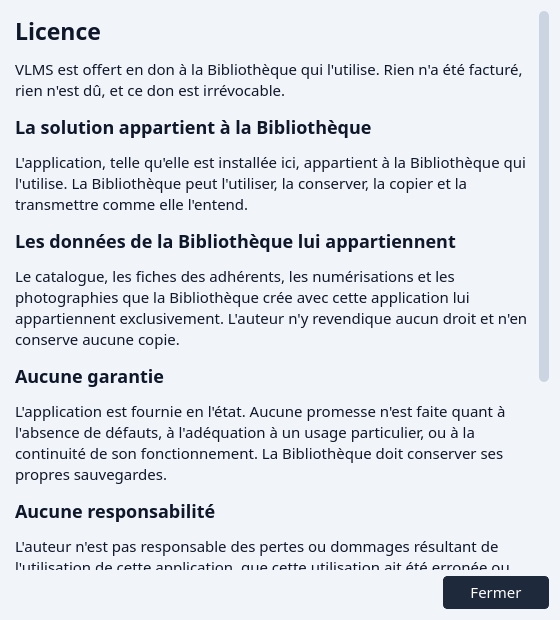
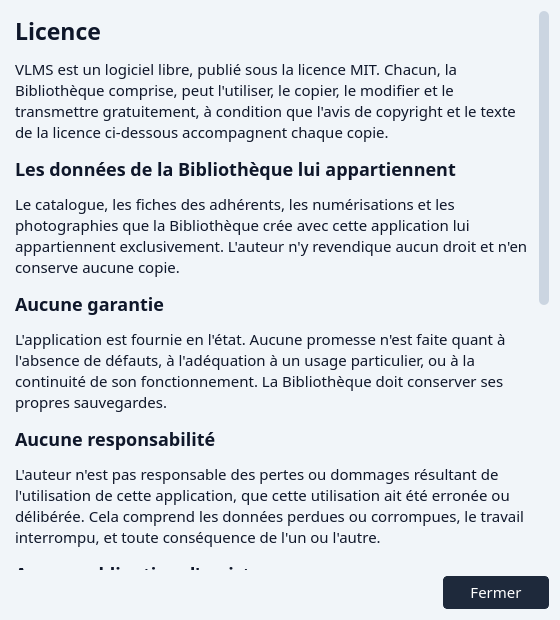
Make the licence dialog say MIT and name the software VLMS is built with.

Changed region(s): [[0.0304, 0.0919, 1.0, 0.9194], [0.9107, 0.3984, 0.9411, 0.429]]

diff --git a/docs/manual/ar/getting-started.html b/docs/manual/ar/getting-started.html
@@ -26,7 +26,7 @@
 <ol><li><span class="ui">الفهرس</span> — الشاشة التي أنت فيها. بجانبها <span class="ui">الأعضاء</span> و<span class="ui">الإعارة</span> و<span class="ui">الأرشيف</span> و<span class="ui">المؤشرات</span>.</li><li>الأعلام الثلاثة. العلم المعبّأ هو لغة الشاشة. اختيار علم آخر يبدّل التطبيق كله دفعة واحدة.</li><li>زر السمة، وبجانبه ؟. زر السمة يشغّل السمة الداكنة أو يطفئها. ؟ يفتح هذا الدليل.</li><li>مرشّحات هذه الشاشة.</li><li>البحث.</li><li>القائمة.</li><li>شريط الصفحات.</li><li>تفاصيل السطر المظلّل.</li><li>أزرار هذه الشاشة.</li><li>التذييل. اسم المكتبة رابط.</li></ol>
 <figure class="shot"><a href="../assets/shots/ar/gs-dark.png"><img src="../assets/shots/ar/gs-dark.png" alt="النافذة نفسها بالسمة الداكنة." loading="lazy"></a><figcaption>النافذة نفسها بالسمة الداكنة.</figcaption></figure>
 <h2 id="h-1">التذييل والرخصة</h2>
-<p>سطر التذييل يفتح الرخصة. تقول إن التطبيق هبة لهذه المكتبة، وإن المكتبة تملك التطبيق كما هو مثبّت هنا، وإن الفهرس وبيانات الأعضاء والصور ملك المكتبة. لا ضمان.</p>
+<p>سطر التذييل يفتح الرخصة. VLMS برنامج حرّ بموجب رخصة MIT: يحقّ للمكتبة، كما لأيّ كان، أن تستعمله وتنسخه وتعدّله وتنقله، شرط أن ترافقه الرخصة. والفهرس وبيانات الأعضاء والصور ملك المكتبة. لا ضمان. وتذكر الرخصة أيضًا البرمجيات التي بُني عليها VLMS، مثل Qt وTesseract، وتنتهي بالنصّ الكامل لرخصة MIT.</p>
 <figure class="shot"><a href="../assets/shots/ar/gs-licence.png"><img src="../assets/shots/ar/gs-licence.png" alt="الرخصة." loading="lazy"></a><figcaption>الرخصة.</figcaption></figure>
 <p>أغلقها بـ<span class="ui">إغلاق</span>.</p>
 <h2 id="list-shape">شكل كل قائمة</h2>

diff --git a/docs/manual/fr/getting-started.html b/docs/manual/fr/getting-started.html
@@ -26,7 +26,7 @@
 <ol><li><span class="ui">Catalogue</span> — l'écran affiché. <span class="ui">Adhérents</span>, <span class="ui">Circulation</span>, <span class="ui">Archives</span> et <span class="ui">Indicateurs</span> sont à côté.</li><li>Les trois drapeaux. Le drapeau rempli est la langue de l'écran. Un autre drapeau change toute l'application d'un coup.</li><li>Le bouton de thème, et le ? à côté. Le bouton de thème allume ou éteint le thème sombre. Le ? ouvre ce manuel.</li><li>Les filtres de cet écran.</li><li>La recherche.</li><li>La liste.</li><li>La pagination.</li><li>Le détail de la ligne surlignée.</li><li>Les boutons de cet écran.</li><li>Le pied de page. Le nom de la bibliothèque est un lien.</li></ol>
 <figure class="shot"><a href="../assets/shots/fr/gs-dark.png"><img src="../assets/shots/fr/gs-dark.png" alt="La même fenêtre en thème sombre." loading="lazy"></a><figcaption>La même fenêtre en thème sombre.</figcaption></figure>
 <h2 id="h-1">Le pied de page et la licence</h2>
-<p>La ligne du pied de page ouvre la licence. Elle dit que l'application est un don à cette bibliothèque, que la bibliothèque possède l'application telle qu'elle est installée ici, et que le catalogue, les fiches d'adhérents et les photographies appartiennent à la bibliothèque. Il n'y a pas de garantie.</p>
+<p>La ligne du pied de page ouvre la licence. VLMS est un logiciel libre sous licence MIT : la bibliothèque, comme chacun, peut l'utiliser, le copier, le modifier et le transmettre, à condition que la licence l'accompagne. Le catalogue, les fiches d'adhérents et les photographies appartiennent à la bibliothèque. Il n'y a pas de garantie. La licence cite aussi les logiciels sur lesquels VLMS repose, comme Qt et Tesseract, et se termine par le texte complet de la licence MIT.</p>
 <figure class="shot"><a href="../assets/shots/fr/gs-licence.png"><img src="../assets/shots/fr/gs-licence.png" alt="La licence." loading="lazy"></a><figcaption>La licence.</figcaption></figure>
 <p>Fermez-la avec <span class="ui">Fermer</span>.</p>
 <h2 id="list-shape">La forme de chaque liste</h2>

diff --git a/docs/manual/en/getting-started.html b/docs/manual/en/getting-started.html
@@ -26,7 +26,7 @@
 <ol><li><span class="ui">Catalogue</span> — the screen you are on. <span class="ui">Members</span>, <span class="ui">Circulation</span>, <span class="ui">Archive</span>, and <span class="ui">Metrics</span> sit beside it.</li><li>The three flags. The filled one is the language of the screen. Choosing another flag switches the whole application at once.</li><li>The theme button, and the ? beside it. The theme button turns the dark theme on and off. The ? opens this manual.</li><li>The filters for this screen.</li><li>Search.</li><li>The list.</li><li>The pager.</li><li>The details of the highlighted row.</li><li>The buttons for this screen.</li><li>The footer. The library's name is a link.</li></ol>
 <figure class="shot"><a href="../assets/shots/en/gs-dark.png"><img src="../assets/shots/en/gs-dark.png" alt="The same window in the dark theme." loading="lazy"></a><figcaption>The same window in the dark theme.</figcaption></figure>
 <h2 id="h-1">The footer and the licence</h2>
-<p>The line in the footer opens the licence. It says the application is a gift to this library, that the library owns the application as it is installed here, and that the catalogue, the member records, and the photographs belong to the library. There is no warranty.</p>
+<p>The line in the footer opens the licence. VLMS is free software under the MIT Licence: the library, like anyone, may use, copy, change and pass it on, as long as the licence goes with it. The catalogue, the member records and the photographs belong to the library. There is no warranty. The licence also names the software VLMS is built with, such as Qt and Tesseract, and ends with the full MIT text.</p>
 <figure class="shot"><a href="../assets/shots/en/gs-licence.png"><img src="../assets/shots/en/gs-licence.png" alt="The licence." loading="lazy"></a><figcaption>The licence.</figcaption></figure>
 <p>Close it with <span class="ui">Close</span>.</p>
 <h2 id="list-shape">The shape of every list</h2>

diff --git a/libraries/Core/src/Strings.cpp b/libraries/Core/src/Strings.cpp
@@ -40,12 +40,9 @@ StringTable arabicStrings()
         // the body, only in the contact block.
         {"licence.title", "الرخصة"},
         {"licence.intro",
-         "برنامج VLMS هدية مُهداة إلى المكتبة التي تستعمله. "
-         "لم يُطلب عنه أي مقابل، ولا شيء مستحق عليه، والهبة لا رجعة فيها."},
-        {"licence.clause.ownership.head", "الحلّ ملك للمكتبة"},
-        {"licence.clause.ownership.body",
-         "التطبيق، كما هو مُثبَّت هنا، ملك للمكتبة التي تستعمله. وللمكتبة أن تستعمله "
-         "وتحتفظ به وتنسخه وتنقله كما تشاء."},
+         "برنامج VLMS برنامج حرّ صادر بموجب رخصة MIT. ويحقّ لأيّ كان، والمكتبة منهم، أن "
+         "يستعمله وينسخه ويعدّله وينقله إلى غيره مجّانًا، شرط أن يرافق كلَّ نسخة منه "
+         "إشعارُ حقوق المؤلف ونصُّ الرخصة الوارد أدناه."},
         {"licence.clause.data.head", "بيانات المكتبة ملك لها"},
         {"licence.clause.data.body",
          "الفهرس وبطاقات المنخرطين والمسوحات والصور التي تنشئها المكتبة بهذا التطبيق ملك "
@@ -62,7 +59,17 @@ StringTable arabicStrings()
         {"licence.clause.support.head", "لا التزام بالدعم"},
         {"licence.clause.support.body",
          "لا يلتزم المؤلف بتقديم دعم أو تدريب أو تحديثات أو إصلاحات. وكلّ عون يُقدَّم هو "
-         "امتداد للهبة، لا واجب مستحقّ."},
+         "تطوّع، لا واجب مستحقّ."},
+        {"licence.thirdParty.head", "برمجيات من أطراف أخرى"},
+        {"licence.thirdParty.body",
+         "بُني VLMS على برمجيات كتبها آخرون، لكلٍّ منها رخصته: Qt (LGPL v3)، وTesseract OCR "
+         "وبيانات لغاته (Apache 2.0)، وLeptonica (BSD 2-Clause)، وSQLite (ملكية عامة)، وخطّ "
+         "Cairo (SIL OFL 1.1). والمكوّنات التي تعتمد عليها مذكورة في الملف "
+         "THIRD_PARTY_NOTICES.txt، والنصوص الكاملة للرخص في المجلد licenses، وكلاهما بجانب "
+         "البرنامج. والشيفرة المصدرية لـ Qt متاحة على https://download.qt.io/"},
+        {"licence.fullText.head", "نصّ الرخصة"},
+        {"licence.fullText.note",
+         "النصّ الإنجليزي التالي هو وحده المعتمد، ولا تحلّ الشروح أعلاه محلّه."},
         {"licence.contact.head", "جهة الاتصال"},
         {"licence.contact.author", "المؤلف: محمد الأمين بن حسين"},
         {"licence.tooltip", "عرض رخصة الاستعمال"},
@@ -539,13 +546,10 @@ StringTable frenchStrings()
         {"footer.copyright", "© {year} VLMS"},
         {"licence.title", "Licence"},
         {"licence.intro",
-         "VLMS est offert en don à la Bibliothèque qui l'utilise. Rien n'a été facturé, "
-         "rien n'est dû, et ce don est irrévocable."},
-        {"licence.clause.ownership.head", "La solution appartient à la Bibliothèque"},
-        {"licence.clause.ownership.body",
-         "L'application, telle qu'elle est installée ici, appartient à la Bibliothèque "
-         "qui l'utilise. La Bibliothèque peut l'utiliser, la conserver, la copier "
-         "et la transmettre comme elle l'entend."},
+         "VLMS est un logiciel libre, publié sous la licence MIT. Chacun, la Bibliothèque "
+         "comprise, peut l'utiliser, le copier, le modifier et le transmettre gratuitement, "
+         "à condition que l'avis de copyright et le texte de la licence ci-dessous "
+         "accompagnent chaque copie."},
         {"licence.clause.data.head", "Les données de la Bibliothèque lui appartiennent"},
         {"licence.clause.data.body",
          "Le catalogue, les fiches des adhérents, les numérisations et les photographies que "
@@ -565,7 +569,19 @@ StringTable frenchStrings()
         {"licence.clause.support.head", "Aucune obligation d'assistance"},
         {"licence.clause.support.body",
          "L'auteur n'est tenu à aucune assistance, formation, mise à jour ni réparation. "
-         "Toute aide apportée prolonge le don ; elle n'est pas une obligation."},
+         "Toute aide apportée est bénévole ; elle n'est pas une obligation."},
+        {"licence.thirdParty.head", "Logiciels de tiers"},
+        {"licence.thirdParty.body",
+         "VLMS repose sur des logiciels écrits par d'autres, chacun sous sa propre licence : "
+         "Qt (LGPL v3), Tesseract OCR et ses données de langue (Apache 2.0), Leptonica "
+         "(BSD 2-Clause), SQLite (domaine public) et la police Cairo (SIL OFL 1.1). Les "
+         "composants dont ils dépendent sont listés dans THIRD_PARTY_NOTICES.txt, et les "
+         "textes complets des licences se trouvent dans le dossier licenses, tous deux à côté "
+         "du programme. Le code source de Qt est disponible sur https://download.qt.io/"},
+        {"licence.fullText.head", "Le texte de la licence"},
+        {"licence.fullText.note",
+         "Seul le texte anglais ci-dessous fait foi. Les explications ci-dessus ne le "
+         "remplacent pas."},
         {"licence.contact.head", "Contact"},
         {"licence.contact.author", "L'auteur : Mohamed Lamine Ben Hassine"},
         {"licence.tooltip", "Afficher la licence"},
@@ -1062,12 +1078,9 @@ StringTable englishStrings()
         {"footer.copyright", "© {year} VLMS"},
         {"licence.title", "Licence"},
         {"licence.intro",
-         "VLMS is given as a gift to the Library that uses it. Nothing was charged for it, "
-         "nothing is owed for it, and the gift cannot be taken back."},
-        {"licence.clause.ownership.head", "The solution is the Library's"},
-        {"licence.clause.ownership.body",
-         "The application, as it is installed here, belongs to the Library that uses it. "
-         "The Library may use it, keep it, copy it and pass it on as it sees fit."},
+         "VLMS is free software, released under the MIT Licence. Anyone, the Library "
+         "included, may use it, copy it, change it and pass it on at no cost, provided the "
+         "copyright notice and the licence text below go with every copy."},
         {"licence.clause.data.head", "The Library's records are its own"},
         {"licence.clause.data.body",
          "The catalogue, the member records, the scans and the photographs the Library "
@@ -1086,7 +1099,18 @@ StringTable englishStrings()
         {"licence.clause.support.head", "No duty to support"},
         {"licence.clause.support.body",
          "The author is under no obligation to provide support, training, updates or "
-         "repairs. Any help given is a continuation of the gift, not a duty owed."},
+         "repairs. Any help given is given freely, not a duty owed."},
+        {"licence.thirdParty.head", "Software by others"},
+        {"licence.thirdParty.body",
+         "VLMS is built with software written by others, each under its own licence: Qt "
+         "(LGPL v3), Tesseract OCR and its language data (Apache 2.0), Leptonica "
+         "(BSD 2-Clause), SQLite (public domain) and the Cairo font (SIL OFL 1.1). The "
+         "components they rely on are listed in THIRD_PARTY_NOTICES.txt, and the full licence "
+         "texts are in the licenses folder, both beside the program. The source code of Qt "
+         "is available from https://download.qt.io/"},
+        {"licence.fullText.head", "The licence text"},
+        {"licence.fullText.note",
+         "The text below is the one that applies. The explanations above do not replace it."},
         {"licence.contact.head", "Contact"},
         {"licence.contact.author", "The author: Mohamed Lamine Ben Hassine"},
         {"licence.tooltip", "Show the licence"},

diff --git a/applications/vlms/test/src/test_licence_dialog.cpp b/applications/vlms/test/src/test_licence_dialog.cpp
@@ -13,6 +13,7 @@
 #include <QLayout>
 #include <QPushButton>
 #include <QRect>
+#include <QScrollBar>
 #include <QTextBrowser>
 #include <Qt>
 
@@ -37,11 +38,12 @@ const std::vector<std::string>& clauseBodyKeys()
 {
     static const std::vector<std::string> keys = {
         "licence.intro",
-        "licence.clause.ownership.body",
         "licence.clause.data.body",
         "licence.clause.warranty.body",
         "licence.clause.liability.body",
         "licence.clause.support.body",
+        "licence.thirdParty.body",
+        "licence.fullText.note",
     };
     return keys;
 }
@@ -170,11 +172,56 @@ TEST_F(test_ui_LicenceDialog, TheLicenceIsNotPaintedAsAnInputField)
         const QColor top = shot.pixelColor(box.center().x(), box.top());
         const QColor bottom = shot.pixelColor(box.center().x(), box.bottom());
 
+        // The licence is longer than the window, so a scroll bar runs down one
+        // side -- the left one in Arabic -- and that edge shows the bar's own
+        // outline, not a frame. Only the edges without it say anything.
+        const QScrollBar* bar = body->verticalScrollBar();
+        const bool barShown = bar->isVisibleTo(body);
+        const bool barOnLeft = barShown && bar->geometry().center().x() < body->width() / 2;
+
         const QColor border(QLatin1String(c.borderColour));
-        EXPECT_NE(left, border);
-        EXPECT_NE(right, border);
+        if (!barOnLeft) {
+            EXPECT_NE(left, border);
+        }
+        if (!barShown || barOnLeft) {
+            EXPECT_NE(right, border);
+        }
         EXPECT_NE(top, border);
         EXPECT_NE(bottom, border);
     }
     Theme::setMode(Theme::kDefaultMode);
+}
+
+// MIT asks for the copyright notice and the permission notice in every copy.
+// The binding text is the English one, so it is shown verbatim whatever the
+// language; the clauses above it only explain it.
+TEST_F(test_ui_LicenceDialog, TheMitLicenceIsShownInFullInEveryLanguage)
+{
+    for (const char* locale : {kArabic, kFrench, kEnglish}) {
+        SCOPED_TRACE(locale);
+        Core::Locale::setCode(locale);
+        LicenceDialog dialog;
+        const QString text = dialog.documentText();
+
+        EXPECT_TRUE(text.contains(QStringLiteral("MIT License")));
+        EXPECT_TRUE(text.contains(QStringLiteral("Copyright (c) 2026 Mohamed Lamine Ben Hassine")));
+        EXPECT_TRUE(text.contains(QStringLiteral("Permission is hereby granted, free of charge")));
+        EXPECT_TRUE(text.contains(QStringLiteral("THE SOFTWARE IS PROVIDED \"AS IS\"")));
+    }
+}
+
+TEST_F(test_ui_LicenceDialog, EveryBundledComponentIsNamedWithItsLicence)
+{
+    for (const char* locale : {kArabic, kFrench, kEnglish}) {
+        SCOPED_TRACE(locale);
+        Core::Locale::setCode(locale);
+        LicenceDialog dialog;
+        const QString text = dialog.documentText();
+
+        for (const char* name : {"Qt", "LGPL", "Tesseract", "Apache", "Leptonica", "BSD",
+                                 "SQLite", "Cairo", "OFL", "THIRD_PARTY_NOTICES.txt"}) {
+            SCOPED_TRACE(name);
+            EXPECT_TRUE(text.contains(QString::fromLatin1(name)));
+        }
+    }
 }

diff --git a/libraries/Core/test/src/test_licence_strings.cpp b/libraries/Core/test/src/test_licence_strings.cpp
@@ -21,8 +21,6 @@ const std::vector<std::string>& licenceKeys()
     static const std::vector<std::string> keys = {
         "licence.title",
         "licence.intro",
-        "licence.clause.ownership.head",
-        "licence.clause.ownership.body",
         "licence.clause.data.head",
         "licence.clause.data.body",
         "licence.clause.warranty.head",
@@ -31,6 +29,10 @@ const std::vector<std::string>& licenceKeys()
         "licence.clause.liability.body",
         "licence.clause.support.head",
         "licence.clause.support.body",
+        "licence.thirdParty.head",
+        "licence.thirdParty.body",
+        "licence.fullText.head",
+        "licence.fullText.note",
         "licence.contact.head",
         "licence.contact.author",
         "licence.tooltip",
@@ -66,11 +68,12 @@ TEST(test_core_LicenceStrings, TheLicenceNamesTheAuthorOnlyInTheContactBlock)
 {
     const std::vector<std::string> bodyKeys = {
         "licence.intro",
-        "licence.clause.ownership.body",
         "licence.clause.data.body",
         "licence.clause.warranty.body",
         "licence.clause.liability.body",
         "licence.clause.support.body",
+        "licence.thirdParty.body",
+        "licence.fullText.note",
     };
     for (const char* locale : {kArabic, kFrench, kEnglish}) {
         for (const std::string& key : bodyKeys) {
@@ -80,4 +83,24 @@ TEST(test_core_LicenceStrings, TheLicenceNamesTheAuthorOnlyInTheContactBlock)
     }
     EXPECT_NE(Core::Strings::rawValue(kEnglish, "licence.contact.author").find("Ben Hassine"),
               std::string::npos);
+}
+
+// The old gift wording said the application belonged to the Library. Under the
+// MIT licence the author keeps the copyright and the Library gets the
+// permissions; a clause saying otherwise contradicted the LICENSE file.
+TEST(test_core_LicenceStrings, NoClauseClaimsTheApplicationForTheLibrary)
+{
+    for (const char* locale : {kArabic, kFrench, kEnglish}) {
+        SCOPED_TRACE(locale);
+        EXPECT_TRUE(Core::Strings::rawValue(locale, "licence.clause.ownership.head").empty());
+        EXPECT_TRUE(Core::Strings::rawValue(locale, "licence.clause.ownership.body").empty());
+    }
+}
+
+TEST(test_core_LicenceStrings, TheIntroNamesTheMitLicenceInEveryLanguage)
+{
+    for (const char* locale : {kArabic, kFrench, kEnglish}) {
+        SCOPED_TRACE(locale);
+        EXPECT_NE(Core::Strings::rawValue(locale, "licence.intro").find("MIT"), std::string::npos);
+    }
 }

diff --git a/applications/vlms/src/ui/LicenceDialog.cpp b/applications/vlms/src/ui/LicenceDialog.cpp
@@ -6,6 +6,7 @@
 #include "QtBridge.h"
 
 #include <QDialogButtonBox>
+#include <QFile>
 #include <QString>
 #include <QStringLiteral>
 #include <QTextBrowser>
@@ -33,6 +34,15 @@ QString clause(const QString& head, const QString& body)
            + paragraph(body);
 }
 
+QString mitLicenceText()
+{
+    QFile file(QStringLiteral(":/licence/LICENSE"));
+    if (!file.open(QIODevice::ReadOnly)) {
+        return {};
+    }
+    return QString::fromUtf8(file.readAll());
+}
+
 QString licenceHtml()
 {
     const QString direction = VLMS::Core::Locale::isRtl() ? QStringLiteral("rtl") : QStringLiteral("ltr");
@@ -40,11 +50,21 @@ QString licenceHtml()
     QString html = QStringLiteral("<div dir=\"%1\">").arg(direction);
     html += QStringLiteral("<h2>") + T("licence.title").toHtmlEscaped() + QStringLiteral("</h2>");
     html += paragraph(T("licence.intro"));
-    html += clause(T("licence.clause.ownership.head"), T("licence.clause.ownership.body"));
     html += clause(T("licence.clause.data.head"), T("licence.clause.data.body"));
     html += clause(T("licence.clause.warranty.head"), T("licence.clause.warranty.body"));
     html += clause(T("licence.clause.liability.head"), T("licence.clause.liability.body"));
     html += clause(T("licence.clause.support.head"), T("licence.clause.support.body"));
+    html += clause(T("licence.thirdParty.head"), T("licence.thirdParty.body"));
+    html += clause(T("licence.fullText.head"), T("licence.fullText.note"));
+    // The LICENSE file itself, never a copy of it, in English in every
+    // language: it is the text that binds, and MIT asks for it in every copy.
+    // Its paragraphs are rewrapped to the window -- the words are what binds,
+    // not the 80-column line breaks, which would only scroll sideways.
+    html += QStringLiteral("<div dir=\"ltr\">");
+    for (const QString& block : mitLicenceText().split(QStringLiteral("\n\n"), Qt::SkipEmptyParts)) {
+        html += paragraph(block.simplified());
+    }
+    html += QStringLiteral("</div>");
     html += QStringLiteral("<h3>") + T("licence.contact.head").toHtmlEscaped()
             + QStringLiteral("</h3>");
     html += QStringLiteral("<p>") + T("licence.contact.author").toHtmlEscaped()

diff --git a/docs/manual/content/fr/getting-started.md b/docs/manual/content/fr/getting-started.md
@@ -23,7 +23,7 @@ Ouvrez VLMS. La fenêtre s'ouvre sur le Catalogue, dans la langue et le thème c
 
 ## Le pied de page et la licence
 
-La ligne du pied de page ouvre la licence. Elle dit que l'application est un don à cette bibliothèque, que la bibliothèque possède l'application telle qu'elle est installée ici, et que le catalogue, les fiches d'adhérents et les photographies appartiennent à la bibliothèque. Il n'y a pas de garantie.
+La ligne du pied de page ouvre la licence. VLMS est un logiciel libre sous licence MIT : la bibliothèque, comme chacun, peut l'utiliser, le copier, le modifier et le transmettre, à condition que la licence l'accompagne. Le catalogue, les fiches d'adhérents et les photographies appartiennent à la bibliothèque. Il n'y a pas de garantie. La licence cite aussi les logiciels sur lesquels VLMS repose, comme Qt et Tesseract, et se termine par le texte complet de la licence MIT.
 
 ![La licence.](shot:gs-licence)
 

diff --git a/docs/manual/content/en/getting-started.md b/docs/manual/content/en/getting-started.md
@@ -23,7 +23,7 @@ Open VLMS. The window comes up on the Catalogue, in the language and the light o
 
 ## The footer and the licence
 
-The line in the footer opens the licence. It says the application is a gift to this library, that the library owns the application as it is installed here, and that the catalogue, the member records, and the photographs belong to the library. There is no warranty.
+The line in the footer opens the licence. VLMS is free software under the MIT Licence: the library, like anyone, may use, copy, change and pass it on, as long as the licence goes with it. The catalogue, the member records and the photographs belong to the library. There is no warranty. The licence also names the software VLMS is built with, such as Qt and Tesseract, and ends with the full MIT text.
 
 ![The licence.](shot:gs-licence)
 
